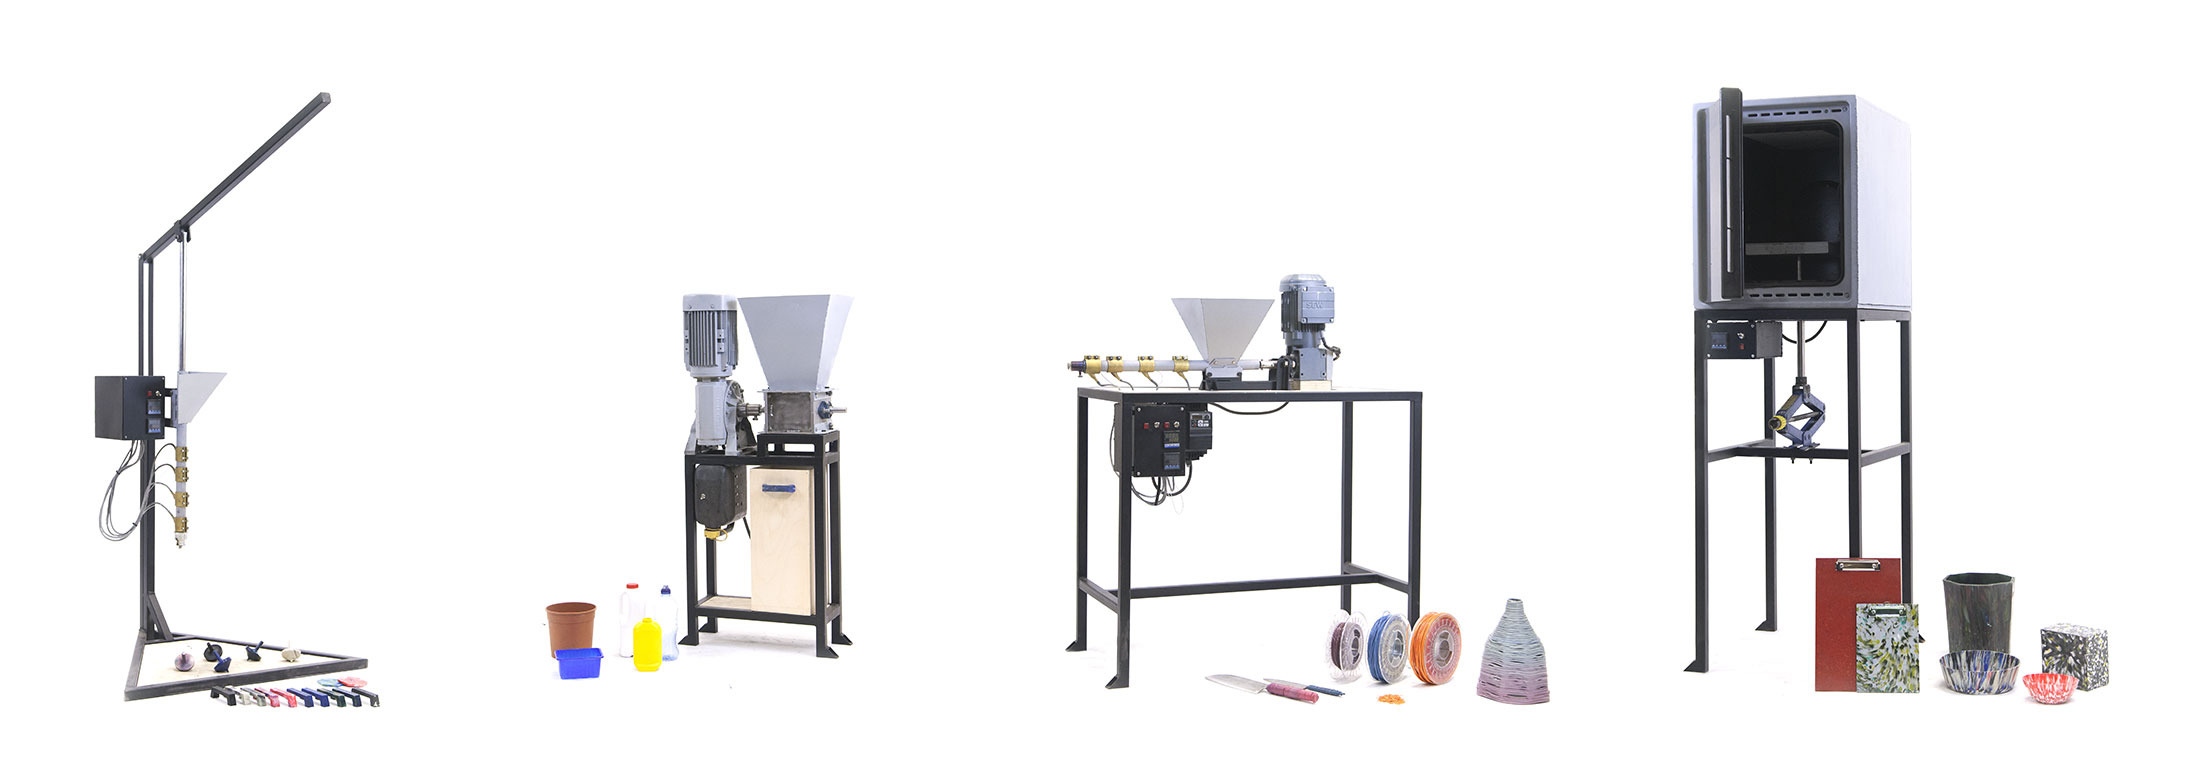
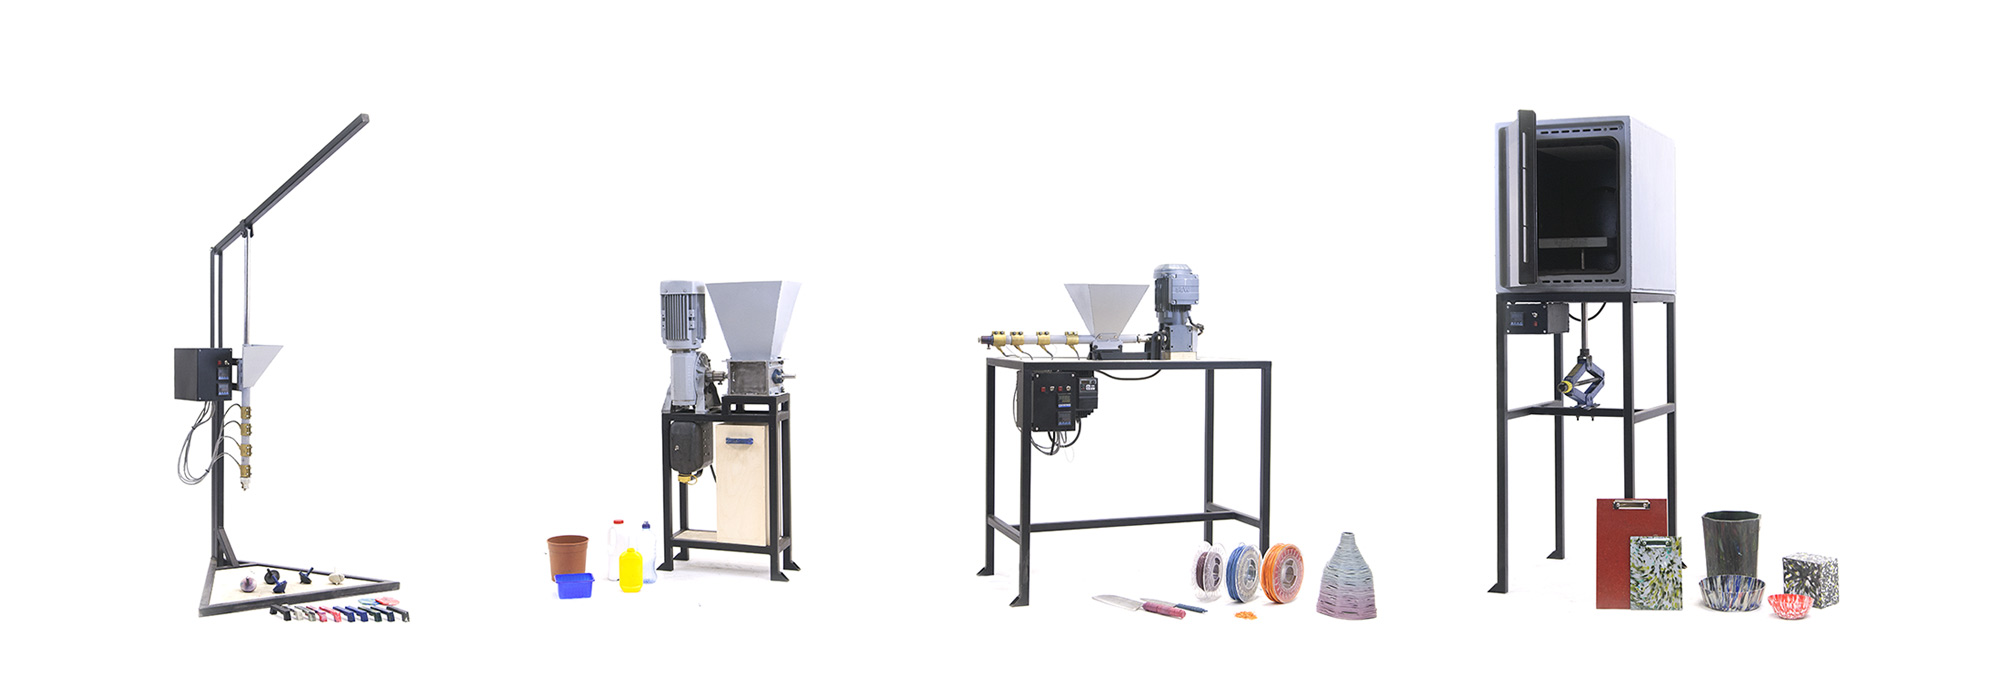
image edit homepage
slightly smaller

diff --git a/_sass/_main.scss b/_sass/_main.scss
@@ -506,7 +506,7 @@ a {
     text-align: center;
     padding: 40px 20px 50%;
     background: #fff url(/assets/images/intro-colored-white.jpg) no-repeat left bottom;
-    background-size: 138% auto;
+    background-size: 136% auto;
 
     h1 {
       font-size: 30px;
@@ -1280,6 +1280,15 @@ a {
     }
   }
 }
+
+.visitwebsite {
+    margin-top: 15px;
+  }
+
+.visitwebsite a {
+    color:#6A90C1;
+  }
+
 
 #ready-to-start {
   text-align: center;
